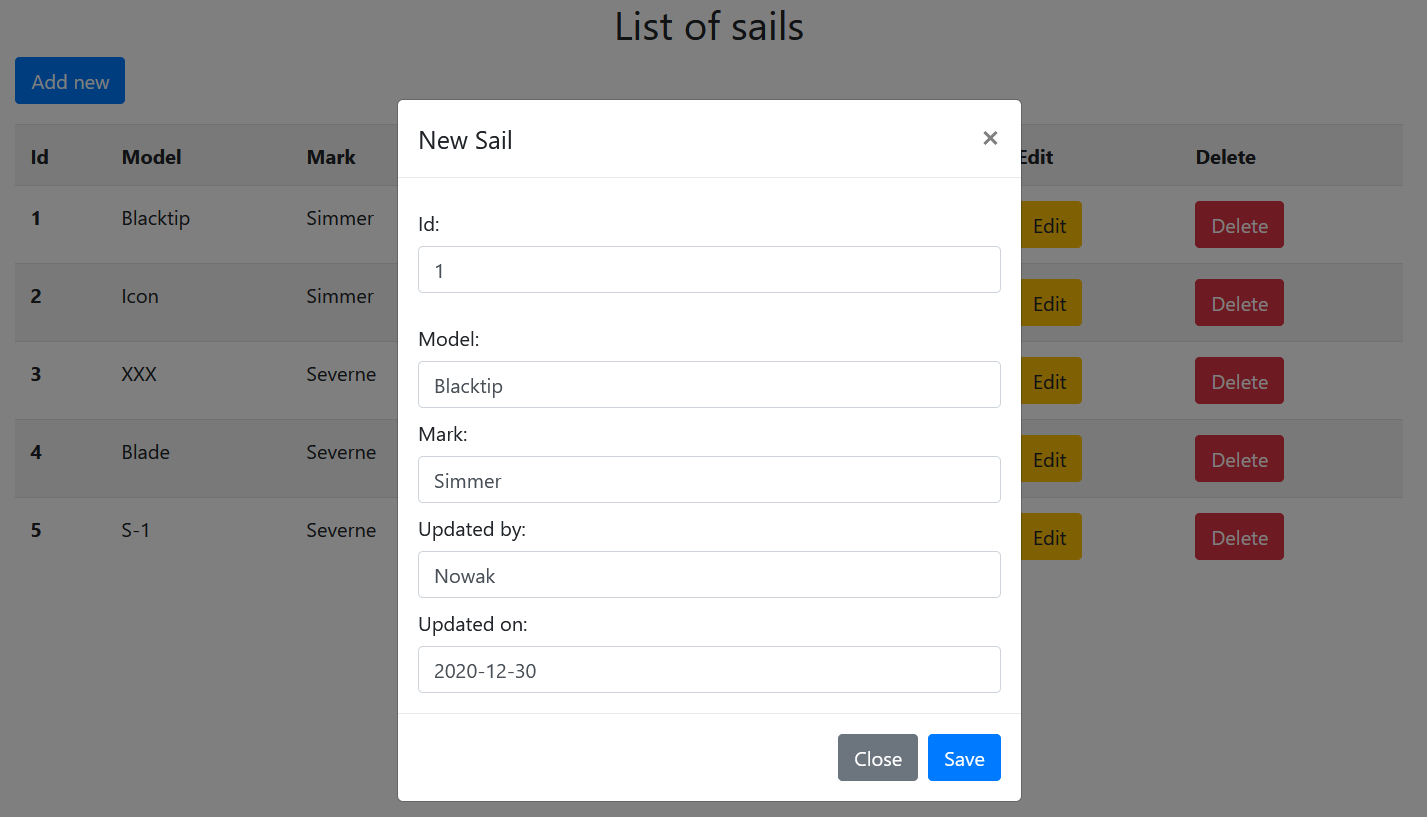
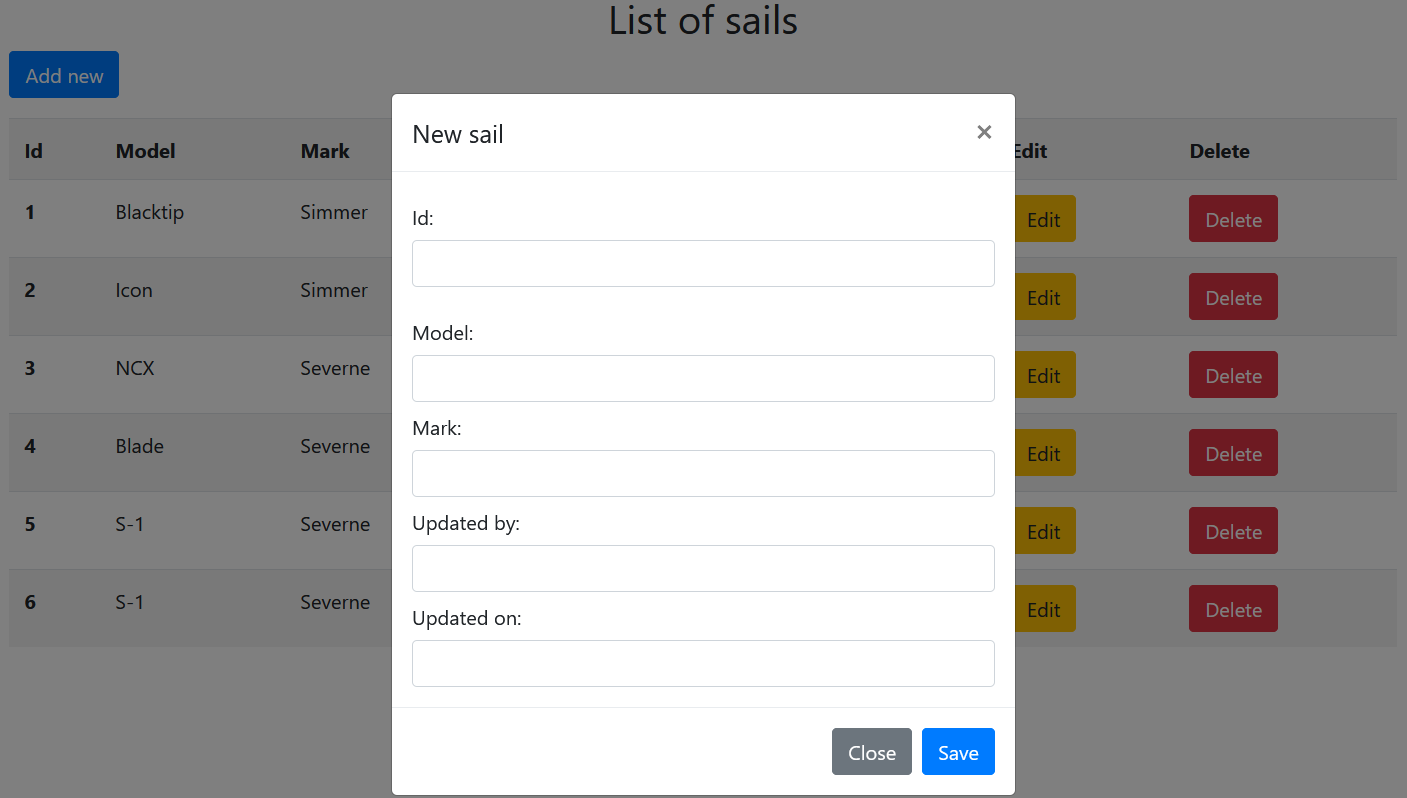
validation

diff --git a/src/main/resources/templates/sails.html b/src/main/resources/templates/sails.html
@@ -56,27 +56,42 @@
                     <div class="form-group">
                         <label for="idAdd" class="col-form-label">Id:</label>
                         <input type="text" class="form-control" id="idAdd" name="id">
+                        <p id="idMessage" style="color: red;">
+                            **Id is missing
+                        </p>
                     </div>
                     <div>
                         <label for="modelAdd" class="col-form-label">Model:</label>
                         <input type="text" class="form-control" id="modelAdd" name="model">
+                        <p id="modelMessage" style="color: red;">
+                            **Model is missing
+                        </p>
                     </div>
                     <div>
                         <label for="markAdd" class="col-form-label">Mark:</label>
                         <input type="text" class="form-control" id="markAdd" name="mark">
+                        <p id="markMessage" style="color: red;">
+                            **Mark is missing
+                        </p>
                     </div>
                     <div>
                         <label for="updatedByAdd" class="col-form-label">Updated by:</label>
                         <input type="text" class="form-control" id="updatedByAdd" name="updatedBy">
+                        <p id="updatedByMessage" style="color: red;">
+                            **Updated by is missing
+                        </p>
                     </div>
                     <div>
                         <label for="updatedOnAdd" class="col-form-label">Updated on:</label>
                         <input type="text" class="form-control" id="updatedOnAdd" name="updatedOn">
+                        <p id="updatedOnMessage" style="color: red;">
+                            **Updated on is missing
+                        </p>
                     </div>
                 </div>
                 <div class="modal-footer">
                     <button type="button" class="btn btn-secondary" data-dismiss="modal">Close</button>
-                    <button type="submit" class="btn btn-primary">Save</button>
+                    <button type="submit" class="btn btn-primary" id="submitAdd">Save</button>
                 </div>
             </div>
         </div>
@@ -99,27 +114,42 @@
                     <div class="form-group">
                         <label for="idUpdate" class="col-form-label">Id:</label>
                         <input type="text" class="form-control" id="idUpdate" name="id">
+                        <p id="idEditMessage" style="color: red;">
+                            **Id is missing
+                        </p>
                     </div>
                     <div>
                         <label for="modelUpdate" class="col-form-label">Model:</label>
                         <input type="text" class="form-control" id="modelUpdate" name="model">
+                        <p id="modelEditMessage" style="color: red;">
+                            **Model is missing
+                        </p>
                     </div>
                     <div>
                         <label for="markUpdate" class="col-form-label">Mark:</label>
                         <input type="text" class="form-control" id="markUpdate" name="mark">
+                        <p id="markEditMessage" style="color: red;">
+                            **Mark is missing
+                        </p>
                     </div>
                     <div>
                         <label for="updatedByUpdate" class="col-form-label">Updated by:</label>
                         <input type="text" class="form-control" id="updatedByUpdate" name="updatedBy">
+                        <p id="updatedByEditMessage" style="color: red;">
+                            **Updated by is missing
+                        </p>
                     </div>
                     <div>
                         <label for="updatedOnUpdate" class="col-form-label">Updated on:</label>
                         <input type="text" class="form-control" id="updatedOnUpdate" name="updatedOn">
+                        <p id="updatedOnEditMessage" style="color: red;">
+                            **Updated on is missing
+                        </p>
                     </div>
                 </div>
                 <div class="modal-footer">
                     <button type="button" class="btn btn-secondary" data-dismiss="modal">Close</button>
-                    <button type="submit" class="btn btn-primary">Save</button>
+                    <button type="submit" class="btn btn-primary" id="submitEdit">Save</button>
                 </div>
             </div>
         </div>
@@ -161,5 +191,7 @@
         integrity="sha384-ChfqqxuZUCnJSK3+MXmPNIyE6ZbWh2IMqE241rYiqJxyMiZ6OW/JmZQ5stwEULTy"
         crossorigin="anonymous"></script>
 <script type="text/javascript" th:src="@{/js/main.js}"></script>
+<script type="text/javascript" th:src="@{/js/validAddModal.js}"></script>
+<script type="text/javascript" th:src="@{/js/validEditModal.js}"></script>
 </body>
 </html>

diff --git a/src/main/resources/static/js/validAddModal.js b/src/main/resources/static/js/validAddModal.js
@@ -1,0 +1,105 @@
+// Validate Add Sail
+let idError;
+let modelError;
+let markError;
+let updatedByError;
+let updatedOnError;
+$('#idMessage').hide();
+$('#modelMessage').hide();
+$('#markMessage').hide();
+$('#updatedByMessage').hide();
+$('#updatedOnMessage').hide();
+
+function validateAddSail() {
+    // id
+    let idAddValue = $('#idAdd').val();
+    if (idAddValue.length === 0) {
+        $('#idMessage').show();
+        idError = true;
+    } else {
+        $('#idMessage').hide();
+        idError = false;
+    }
+    // model
+    let modelAddValue = $('#modelAdd').val();
+    if (modelAddValue.length === 0) {
+        $('#modelMessage').show();
+        modelError = true;
+    } else {
+        $('#modelMessage').hide();
+        modelError = false;
+    }
+    // mark
+    let markAddValue = $('#markAdd').val();
+    if (markAddValue.length === 0) {
+        $('#markMessage').show();
+        markError = true;
+    } else {
+        $('#markMessage').hide();
+        markError = false;
+    }
+    // updated by
+    let updatedByValue = $('#updatedByAdd').val();
+    if (updatedByValue.length === 0) {
+        $('#updatedByMessage').show();
+        updatedByError = true;
+    } else {
+        $('#updatedByMessage').hide();
+        updatedByError = false;
+    }
+    // updated on (yyyy/MM/dd)
+    let updatedOnValue = $('#updatedOnAdd').val();
+    if (updatedOnValue.length === 0) {
+        $('#updatedOnMessage').show();
+        updatedOnError = true;
+    } else if (!(isValidDate(updatedOnValue))) {
+        $('#updatedOnMessage').html
+        ("**should be date format: yyyy-mm-dd");
+        $('#updatedOnMessage').css("color", "red");
+        updatedOnError = true;
+    } else {
+        $('#updatedOnMessage').hide();
+        updatedOnError = false;
+    }
+
+    return !(idError || modelError || markError || updatedByError || updatedOnError);
+
+}
+
+// Submit add Sail
+$('#submitAdd').click(function () {
+    return validateAddSail();
+});
+
+
+// format yyyy-mm-dd.
+function isValidDate(dateString) {
+    // First check for the pattern
+    var regex_date = /^\d{4}\-\d{1,2}\-\d{1,2}$/;
+
+    if (!regex_date.test(dateString)) {
+        return false;
+    }
+
+    // Parse the date parts to integers
+    var parts = dateString.split("-");
+    var day = parseInt(parts[2], 10);
+    var month = parseInt(parts[1], 10);
+    var year = parseInt(parts[0], 10);
+
+    // Check the ranges of month and year
+    if (year < 1000 || year > 3000 || month == 0 || month > 12) {
+        return false;
+    }
+
+    var monthLength = [31, 28, 31, 30, 31, 30, 31, 31, 30, 31, 30, 31];
+
+    // Adjust for leap years
+    if (year % 400 == 0 || (year % 100 != 0 && year % 4 == 0)) {
+        monthLength[1] = 29;
+    }
+
+    // Check the range of the day
+    return day > 0 && day <= monthLength[month - 1];
+}
+

diff --git a/src/main/resources/static/js/validEditModal.js b/src/main/resources/static/js/validEditModal.js
@@ -1,0 +1,72 @@
+// Validate Edit Sail
+let editIdError;
+let editModelError;
+let editMarkError;
+let editUpdatedByError;
+let editUpdatedOnError;
+$('#idEditMessage').hide();
+$('#modelEditMessage').hide();
+$('#markEditMessage').hide();
+$('#updatedByEditMessage').hide();
+$('#updatedOnEditMessage').hide();
+
+function validateEditSail() {
+    // id
+    let idEditValue = $('#idUpdate').val();
+    if (idEditValue.length === 0) {
+        $('#idEditMessage').show();
+        editIdError = true;
+    } else {
+        $('#idEditMessage').hide();
+        editIdError = false;
+    }
+    // model
+    let modelEditValue = $('#modelUpdate').val();
+    if (modelEditValue.length === 0) {
+        $('#modelEditMessage').show();
+        editModelError = true;
+    } else {
+        $('#modelEditMessage').hide();
+        editModelError = false;
+    }
+    // mark
+    let markEditValue = $('#markUpdate').val();
+    if (markEditValue.length === 0) {
+        $('#markEditMessage').show();
+        editMarkError = true;
+    } else {
+        $('#markEditMessage').hide();
+        editMarkError = false;
+    }
+    // updated by
+    let updatedByValue = $('#updatedByUpdate').val();
+    if (updatedByValue.length === 0) {
+        $('#updatedByEditMessage').show();
+        editUpdatedByError = true;
+    } else {
+        $('#updatedByEditMessage').hide();
+        editUpdatedByError = false;
+    }
+    // updated on (yyyy/MM/dd)
+    let updatedOnValue = $('#updatedOnUpdate').val();
+    if (updatedOnValue.length === 0) {
+        $('#updatedOnEditMessage').show();
+        editUpdatedOnError = true;
+    } else if (!(isValidDate(updatedOnValue))) { // in validAddModal file
+        $('#updatedOnEditMessage').html
+        ("**should be date format: yyyy-mm-dd");
+        $('#updatedOnEditMessage').css("color", "red");
+        editUpdatedOnError = true;
+    } else {
+        $('#updatedOnMessage').hide();
+        editUpdatedOnError = false;
+    }
+
+    return !(editIdError || editModelError || editMarkError || editUpdatedByError || editUpdatedOnError);
+
+}
+
+// Submit add Sail
+$('#submitEdit').click(function () {
+    return validateEditSail();
+});

diff --git a/src/main/resources/static/js/main.js b/src/main/resources/static/js/main.js
@@ -8,7 +8,7 @@ $(document).ready(function () {
             $('#modelUpdate').val(sail.model);
             $('#markUpdate').val(sail.mark);
             $('#updatedByUpdate').val(sail.updatedBy);
-            $('#updatedOnUpdate').val(sail.updatedOn).substr(0,10);
+            $('#updatedOnUpdate').val(sail.updatedOn);
         });
         $('#editModal').modal();
     });

diff --git a/README.md b/README.md
@@ -18,4 +18,5 @@ CRUD service with "Sail" model. Used MVC software design pattern.
 ![new](./prtScr/2.png "New Sail")
 ![edit](./prtScr/3.png "Edit Sail")
 ![delete](./prtScr/4.png "Delete Sail")
+![validation](./prtScr/5.png "Validation")
 
